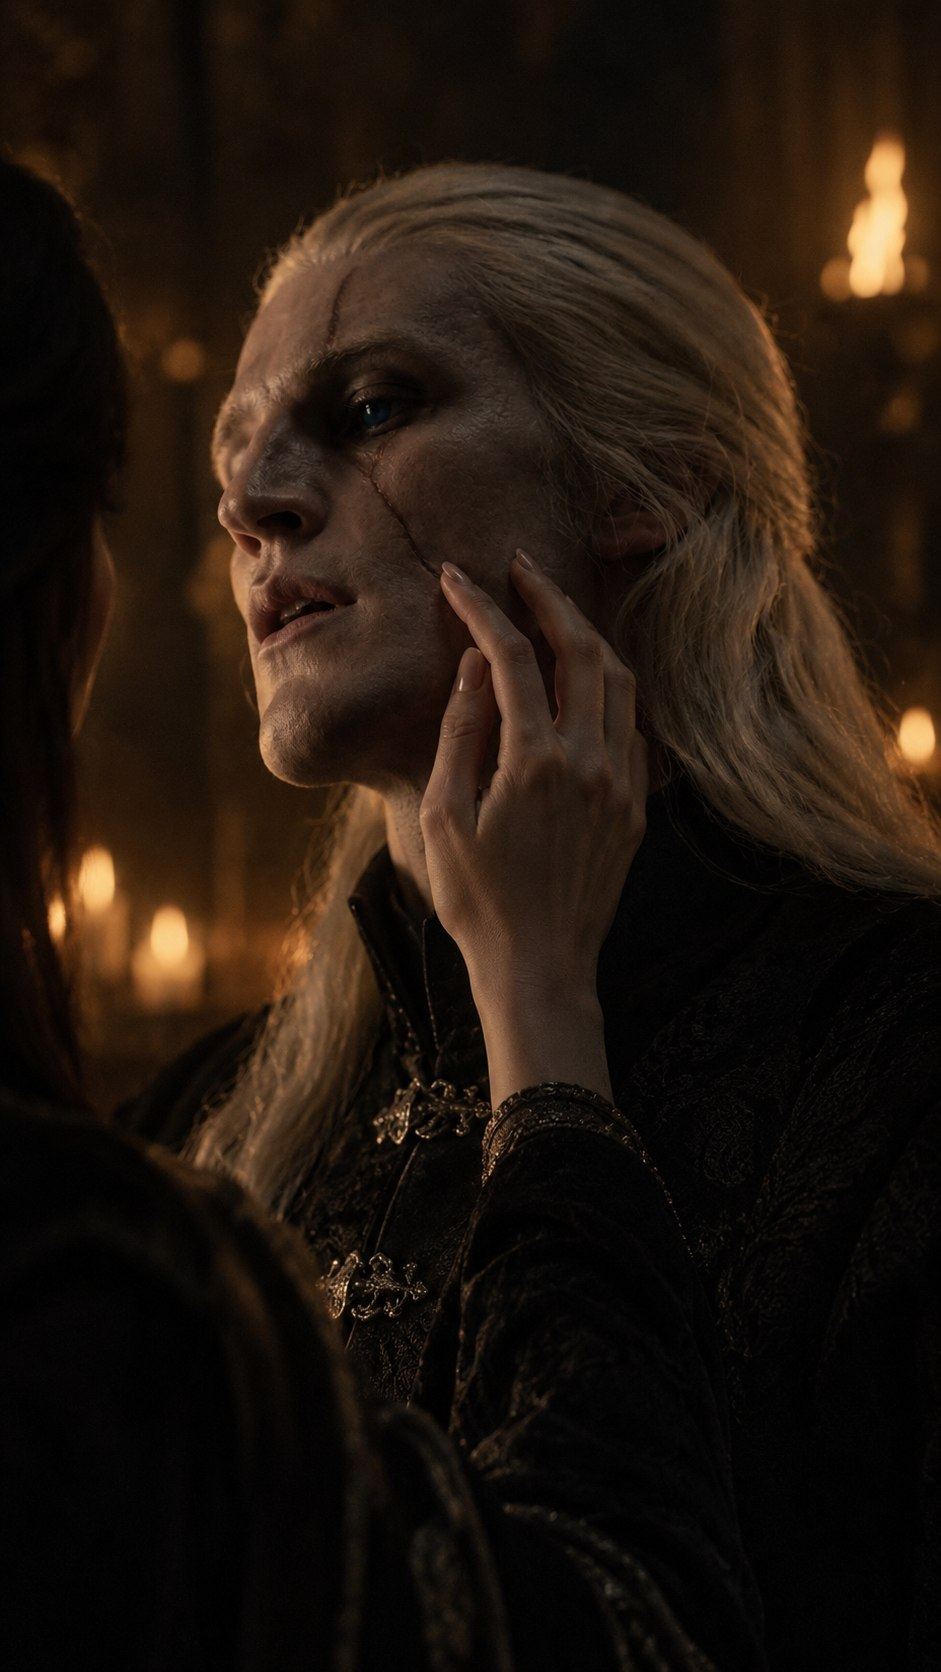
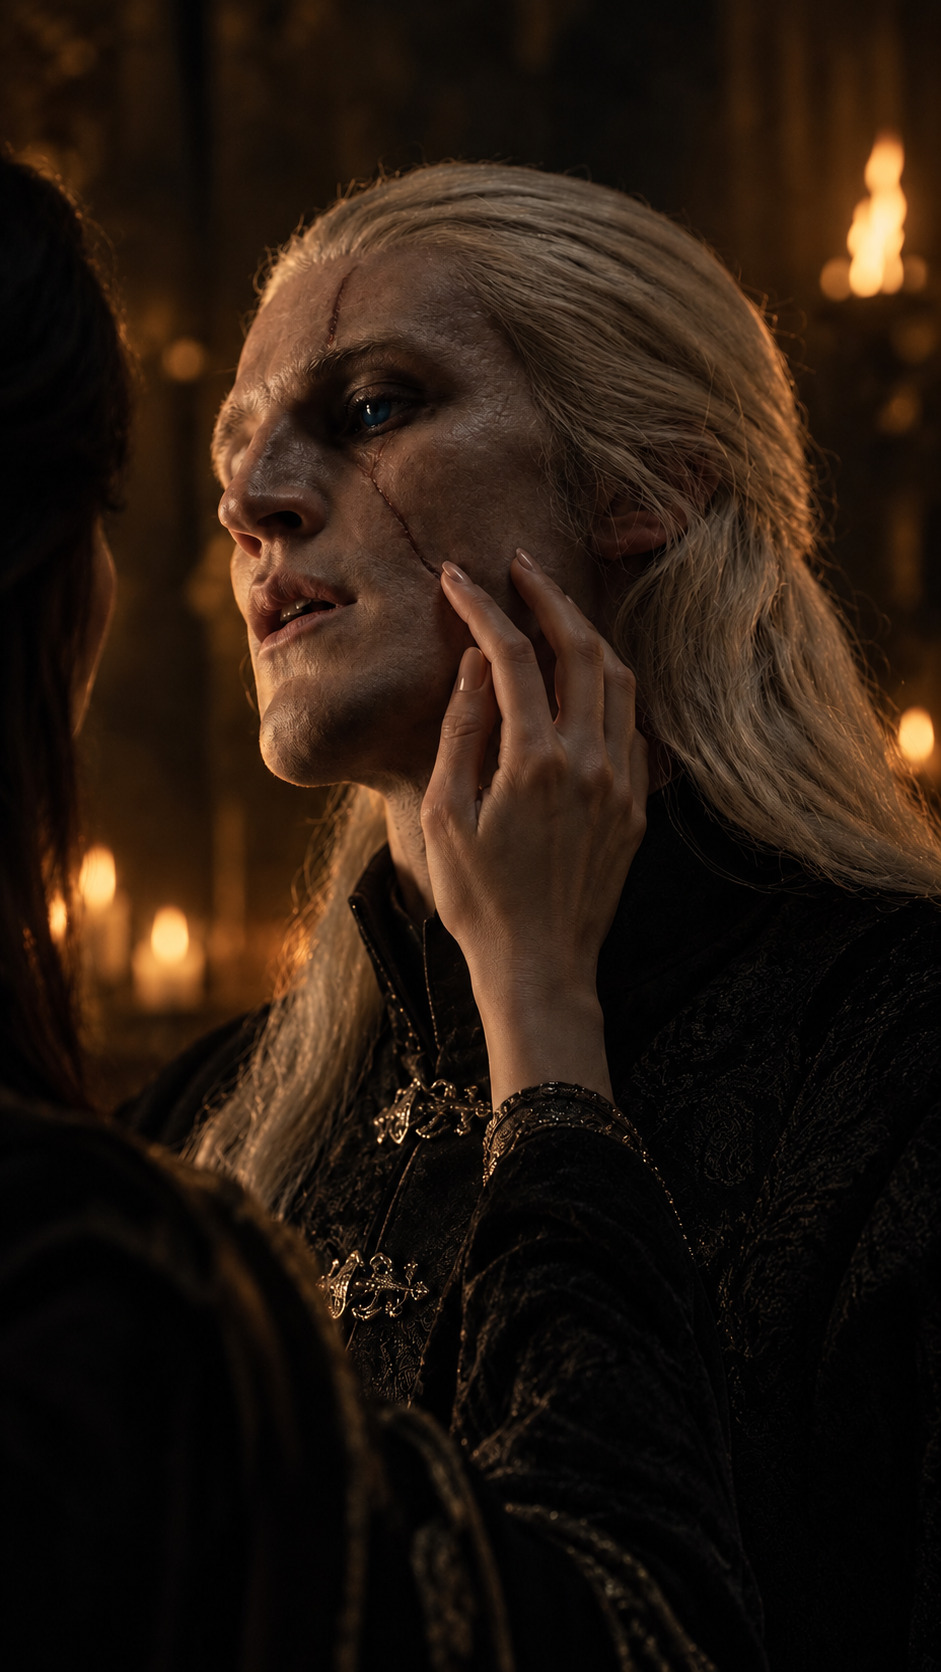
Swap in higher-quality moodboard images

diff --git a/index.html b/index.html
@@ -491,15 +491,15 @@ h1, h2 { margin: 0; font-weight: 400; }
 
   <section class="hero" aria-label="Обложка">
     <div class="triptych">
-      <div class="frame side"><img src="images/7.jpg" width="940" height="1672" alt="Девушка в чёрном бархатном платье у каменной колонны, рядом горят факелы" style="object-position:50% 30%"></div>
+      <div class="frame side"><img src="images/7.jpg?v=2" width="940" height="1672" alt="Девушка в чёрном бархатном платье у каменной колонны, рядом горят факелы" style="object-position:50% 30%"></div>
       <div class="hero-large">
         <figure class="frame" data-crossfade>
-          <img class="is-on" src="images/5.jpg" width="940" height="1672" alt="Эймонд с повязкой на глазу склоняется к темноволосой девушке в полумраке свечей" style="object-position:50% 34%">
-          <img src="images/6.jpg" width="941" height="1672" alt="Её пальцы касаются шрама на его лице" style="object-position:50% 30%" loading="lazy">
-          <img src="images/1.jpg" width="720" height="1280" alt="Двое со спины на балконе над ночным городом с флагами Таргариенов" style="object-position:50% 46%" loading="lazy">
+          <img class="is-on" src="images/5.jpg?v=2" width="940" height="1672" alt="Эймонд с повязкой на глазу склоняется к темноволосой девушке в полумраке свечей" style="object-position:50% 34%">
+          <img src="images/6.jpg?v=2" width="941" height="1672" alt="Её пальцы касаются шрама на его лице" style="object-position:50% 30%" loading="lazy">
+          <img src="images/1.jpg?v=2" width="941" height="1672" alt="Двое со спины на балконе над ночным городом с флагами Таргариенов" style="object-position:50% 46%" loading="lazy">
         </figure>
       </div>
-      <div class="frame side"><img src="images/8.jpg" width="941" height="1672" alt="Эймонд с повязкой на глазу у парапета, рядом горят факелы" style="object-position:50% 30%"></div>
+      <div class="frame side"><img src="images/8.jpg?v=2" width="941" height="1672" alt="Эймонд с повязкой на глазу у парапета, рядом горят факелы" style="object-position:50% 30%"></div>
     </div>
     <h1 class="hero-title"><span class="by"><i style="--d:150ms">by drzzlla_</i></span><span><i style="--d:300ms">Fall of Dragons</i></span></h1>
     <p class="hero-note" data-reveal="text" style="--d:800ms">Фанфик по «Дому Дракона». Эймонд Таргариен и та, ради кого он будет жечь весь мир.</p>
@@ -537,7 +537,7 @@ h1, h2 { margin: 0; font-weight: 400; }
 </main>
 
 <footer class="footer">
-  <img src="images/1.jpg" width="720" height="1280" alt="" loading="lazy">
+  <img src="images/1.jpg?v=2" width="941" height="1672" alt="" loading="lazy">
   <div class="footer-top">
     <ul>
       <li><a class="link" href="https://ficbook.net/readfic/019ff65a-2af9-7be9-b9cb-646e549e66be" target="_blank" rel="noopener">Фикбук</a></li>
@@ -625,7 +625,7 @@ h1, h2 { margin: 0; font-weight: 400; }
     cur = (i + scenes.length) % scenes.length;
     const s = scenes[cur];
     const apply = () => {
-      lbImg.src = 'images/' + s.src;
+      lbImg.src = 'images/' + s.src + '?v=2';
       lbImg.alt = s.alt;
       lbCount.textContent = (cur + 1) + ' из ' + scenes.length;
       requestAnimationFrame(() => lbImg.classList.remove('swap'));
